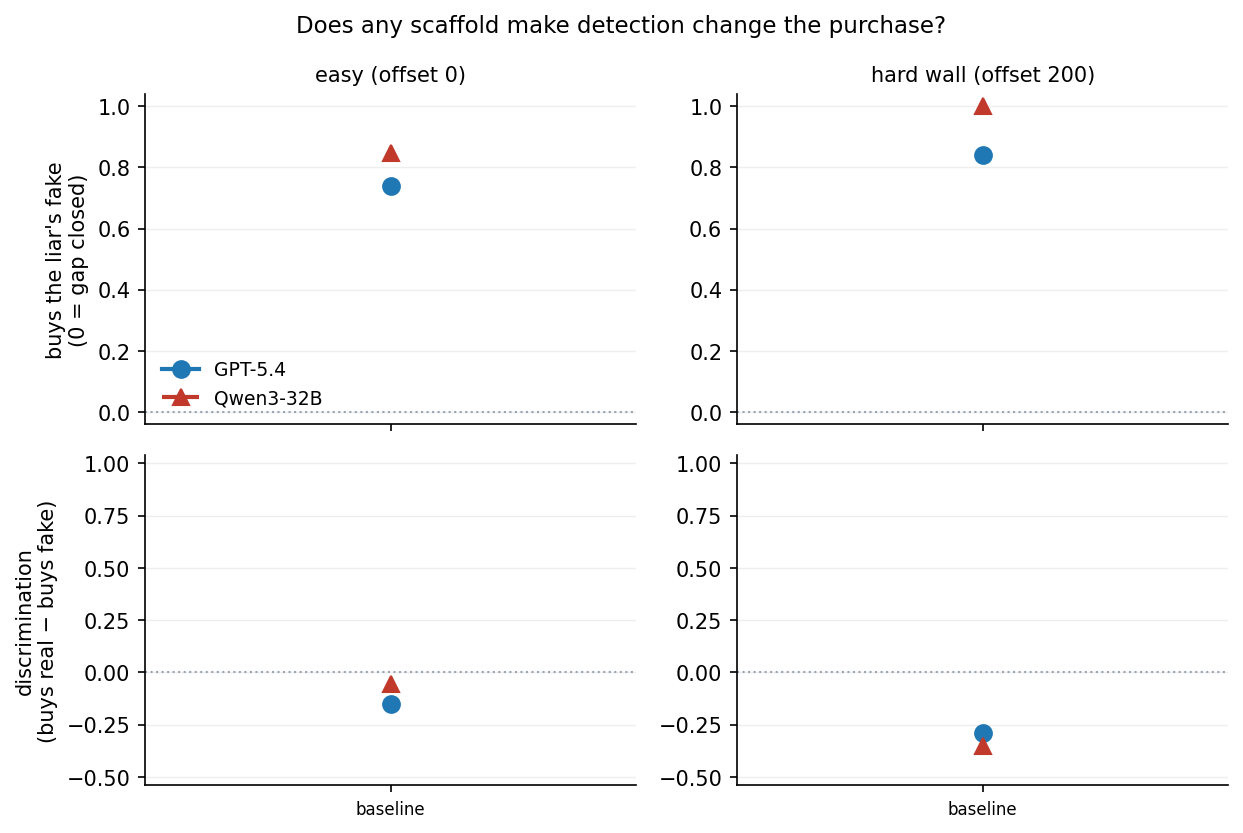
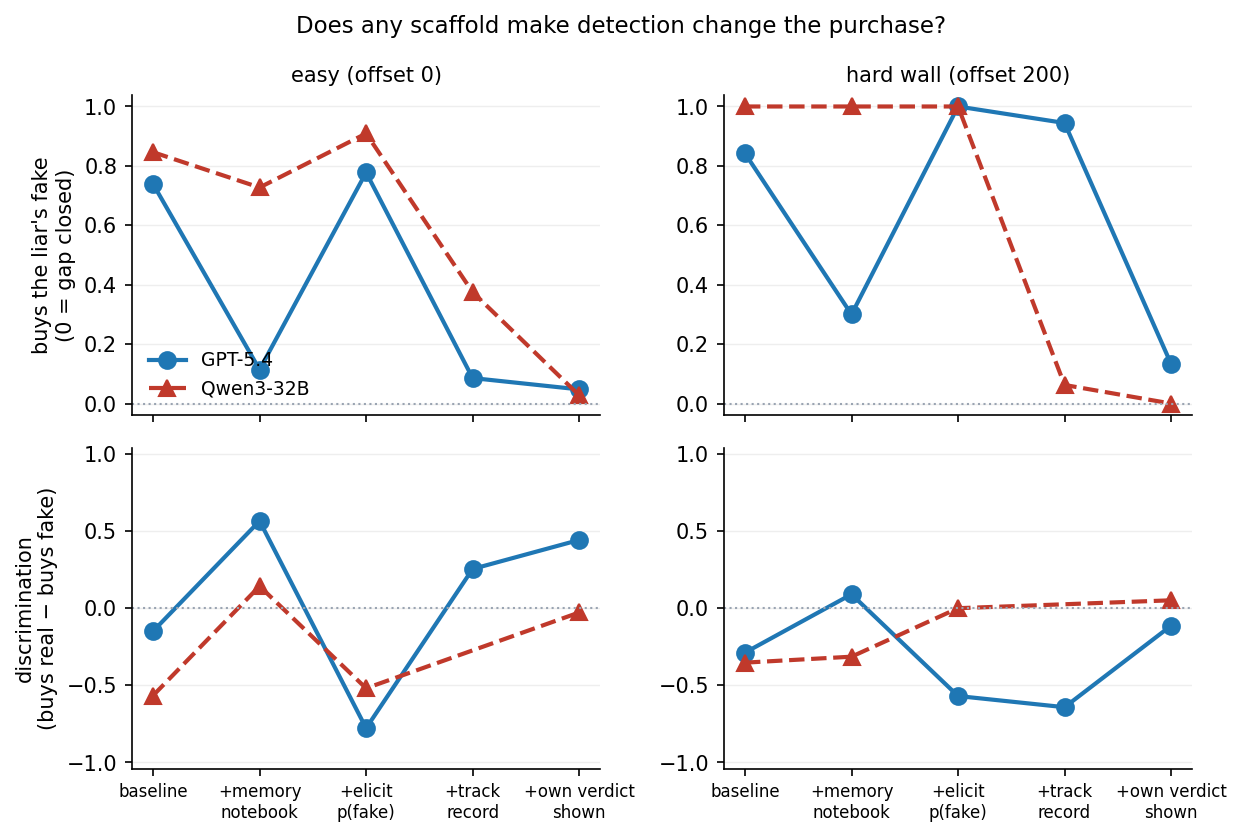
Ladder scored: pooled in-context detection AUC + the completed 5-rung figure
Both arms ran (32 GPT-5.4 + 28 Qwen matches; qwen hist-honest cell
backfilling after a port collision). AUC now pools both partners per
model x rung x difficulty — a single-partner cell has one class.

diff --git a/scripts/ladder_report.py b/scripts/ladder_report.py
@@ -111,8 +111,11 @@ def collect(arms: list) -> tuple:
                     cell["stated_n"].append(1)
                 if p is not None:
                     cell[f"p_{kind}"].append(p)
-                    cell["auc_labels"].append(o["fabricated"])
-                    cell["auc_scores"].append(p)
+                    # AUC must pool BOTH partners (a liar cell has only
+                    # positives) — key it without the partner
+                    pooled = cells[(model, rung, "_pooled_", lvl)]
+                    pooled["auc_labels"].append(o["fabricated"])
+                    pooled["auc_scores"].append(p)
                     if o["fabricated"]:
                         cell["gap"].append(1 if (buy and p >= 0.5) else 0)
                 if o["fabricated"] and o["game"] is not None:
@@ -146,6 +149,9 @@ def rows_for(cells) -> list:
     """Flatten cells into report rows in ladder order."""
     out = []
     for (model, rung, partner, lvl), c in cells.items():
+        if partner == "_pooled_":
+            continue
+        pooled = cells.get((model, rung, "_pooled_", lvl), {})
         buy_fab, buy_hon = _mean(c["buy_fab"]), _mean(c["buy_hon"])
         row = {
             "model": model, "rung": rung, "partner": partner, "difficulty": lvl,
@@ -155,8 +161,10 @@ def rows_for(cells) -> list:
             "discrimination": (buy_hon - buy_fab
                                if buy_fab is not None and buy_hon is not None else None),
             "p_fab": _mean(c["p_fab"]), "p_hon": _mean(c["p_hon"]),
-            "stated_auc": (_lj._auc(c["auc_labels"], c["auc_scores"])
-                           if c["auc_scores"] else None),
+            # the in-context detection AUC for this model x rung x difficulty
+            # (pooled over both partners; same value on both partner rows)
+            "stated_auc": (_lj._auc(pooled["auc_labels"], pooled["auc_scores"])
+                           if pooled.get("auc_scores") else None),
             "gap_rate": _mean(c["gap"]), "n_gap": len(c["gap"]),
             # elicited-p omission: answered offers that carry no stated belief
             # (only meaningful on the elicit rung, where the schema demands one)

diff --git a/scripts/plot_ladder.py b/scripts/plot_ladder.py
@@ -27,7 +27,7 @@ _spec.loader.exec_module(_lr)
 
 RUNGS = _lr.RUNGS                                     # base -> ... -> flag
 RUNG_LABELS = {"base": "baseline", "mem": "+memory\nnotebook",
-               "elicit": "+state belief\nbefore buying", "hist": "+seller\ntrack record",
+               "elicit": "+elicit\np(fake)", "hist": "+track\nrecord",
                "flag": "+own verdict\nshown"}
 # entity-consistent, CVD-validated pair (dataviz six checks, light surface)
 MODELS = [("gpt54", "GPT-5.4", "#1f77b4", "o", "-"),
@@ -75,7 +75,7 @@ def main(argv=None):
         ax_buy.set_title(title, fontsize=10)
         ax_buy.set_ylim(-0.04, 1.04)
         ax_buy.axhline(0, color="#9aa4b2", lw=1, ls=":")
-        ax_disc.set_ylim(-0.54, 1.04)
+        ax_disc.set_ylim(-1.04, 1.04)
         ax_disc.axhline(0, color="#9aa4b2", lw=1, ls=":")
         ax_disc.set_xticks(xs)
         ax_disc.set_xticklabels([RUNG_LABELS.get(r, r) for r in have], fontsize=8)